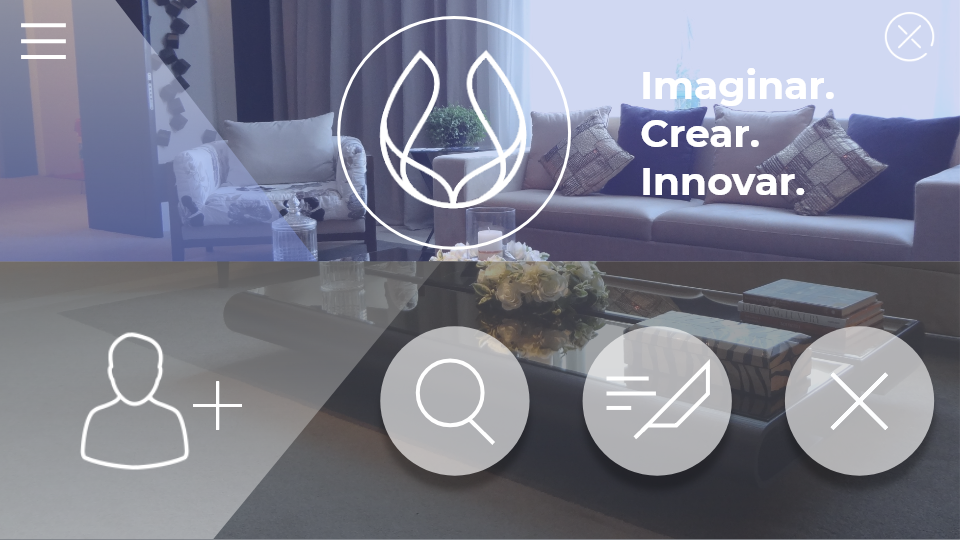
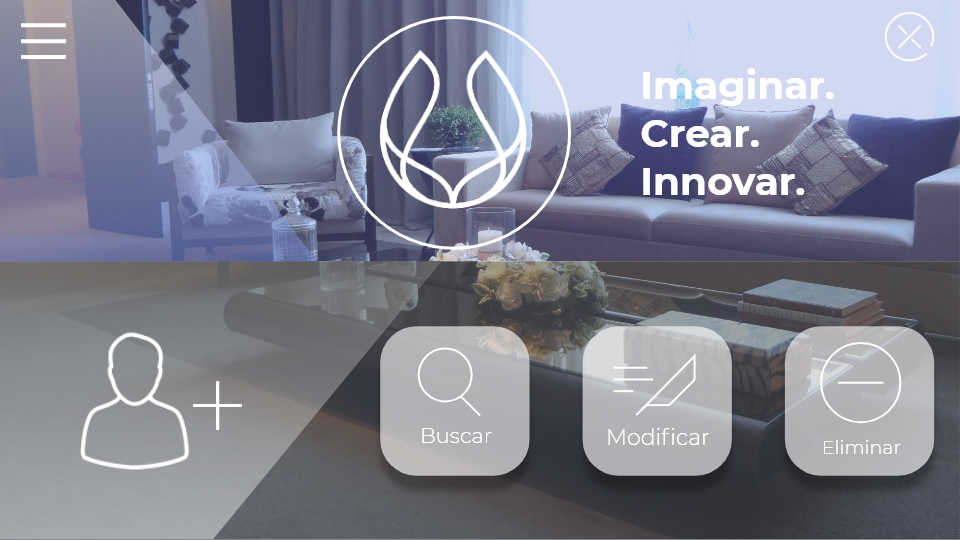
Fix UI and remove title bar

diff --git a/P&M/src/view/Employee/AdminMenu.java b/P&M/src/view/Employee/AdminMenu.java
@@ -29,20 +29,53 @@ public class AdminMenu extends javax.swing.JFrame {
     private void initComponents() {
 
         menuPanel = new javax.swing.JPanel();
-        jLabel1 = new javax.swing.JLabel();
+        exitLabel = new javax.swing.JLabel();
+        searchLabel = new javax.swing.JLabel();
+        modifyLabel = new javax.swing.JLabel();
+        deleteLabel = new javax.swing.JLabel();
+        addLabel = new javax.swing.JLabel();
         UI = new javax.swing.JLabel();
 
         setDefaultCloseOperation(javax.swing.WindowConstants.EXIT_ON_CLOSE);
+        setUndecorated(true);
         getContentPane().setLayout(new org.netbeans.lib.awtextra.AbsoluteLayout());
 
         menuPanel.setLayout(new org.netbeans.lib.awtextra.AbsoluteLayout());
 
-        jLabel1.addMouseListener(new java.awt.event.MouseAdapter() {
+        exitLabel.addMouseListener(new java.awt.event.MouseAdapter() {
             public void mouseClicked(java.awt.event.MouseEvent evt) {
-                jLabel1MouseClicked(evt);
+                exitLabelMouseClicked(evt);
             }
         });
-        menuPanel.add(jLabel1, new org.netbeans.lib.awtextra.AbsoluteConstraints(881, 10, 60, 50));
+        menuPanel.add(exitLabel, new org.netbeans.lib.awtextra.AbsoluteConstraints(881, 10, 60, 50));
+
+        searchLabel.addMouseListener(new java.awt.event.MouseAdapter() {
+            public void mouseClicked(java.awt.event.MouseEvent evt) {
+                searchLabelMouseClicked(evt);
+            }
+        });
+        menuPanel.add(searchLabel, new org.netbeans.lib.awtextra.AbsoluteConstraints(380, 320, 150, 150));
+
+        modifyLabel.addMouseListener(new java.awt.event.MouseAdapter() {
+            public void mouseClicked(java.awt.event.MouseEvent evt) {
+                modifyLabelMouseClicked(evt);
+            }
+        });
+        menuPanel.add(modifyLabel, new org.netbeans.lib.awtextra.AbsoluteConstraints(580, 320, 150, 150));
+
+        deleteLabel.addMouseListener(new java.awt.event.MouseAdapter() {
+            public void mouseClicked(java.awt.event.MouseEvent evt) {
+                deleteLabelMouseClicked(evt);
+            }
+        });
+        menuPanel.add(deleteLabel, new org.netbeans.lib.awtextra.AbsoluteConstraints(790, 320, 140, 150));
+
+        addLabel.addMouseListener(new java.awt.event.MouseAdapter() {
+            public void mouseClicked(java.awt.event.MouseEvent evt) {
+                addLabelMouseClicked(evt);
+            }
+        });
+        menuPanel.add(addLabel, new org.netbeans.lib.awtextra.AbsoluteConstraints(20, 290, 230, 190));
 
         UI.setIcon(new javax.swing.ImageIcon(getClass().getResource("/ui_resources/Admin Menu.png"))); // NOI18N
         menuPanel.add(UI, new org.netbeans.lib.awtextra.AbsoluteConstraints(0, 0, 960, 530));
@@ -52,13 +85,41 @@ public class AdminMenu extends javax.swing.JFrame {
         pack();
     }// </editor-fold>//GEN-END:initComponents
 
-    private void jLabel1MouseClicked(java.awt.event.MouseEvent evt) {//GEN-FIRST:event_jLabel1MouseClicked
+    private void exitLabelMouseClicked(java.awt.event.MouseEvent evt) {//GEN-FIRST:event_exitLabelMouseClicked
         this.dispose();
-    }//GEN-LAST:event_jLabel1MouseClicked
+    }//GEN-LAST:event_exitLabelMouseClicked
+
+    private void addLabelMouseClicked(java.awt.event.MouseEvent evt) {//GEN-FIRST:event_addLabelMouseClicked
+        AddEmployee addMenu = new AddEmployee(controller_,"Administrador");
+        addMenu.setLocationRelativeTo(null);
+        addMenu.setVisible(true);
+    }//GEN-LAST:event_addLabelMouseClicked
+
+    private void searchLabelMouseClicked(java.awt.event.MouseEvent evt) {//GEN-FIRST:event_searchLabelMouseClicked
+        SearchEmployees searchMenu = new SearchEmployees(controller_);
+        searchMenu.setLocationRelativeTo(null);
+        searchMenu.setVisible(true);
+    }//GEN-LAST:event_searchLabelMouseClicked
+
+    private void modifyLabelMouseClicked(java.awt.event.MouseEvent evt) {//GEN-FIRST:event_modifyLabelMouseClicked
+        ModifyEmployee modifyMenu = new ModifyEmployee(controller_, "Admiinistrador");
+        modifyMenu.setLocationRelativeTo(null);
+        modifyMenu.setVisible(true);
+    }//GEN-LAST:event_modifyLabelMouseClicked
+
+    private void deleteLabelMouseClicked(java.awt.event.MouseEvent evt) {//GEN-FIRST:event_deleteLabelMouseClicked
+       DeleteEmployee deleteMenu = new DeleteEmployee(controller_, "Administrador");
+       deleteMenu.setLocationRelativeTo(null);
+       deleteMenu.setVisible(true);
+    }//GEN-LAST:event_deleteLabelMouseClicked
 
     // Variables declaration - do not modify//GEN-BEGIN:variables
     private javax.swing.JLabel UI;
-    private javax.swing.JLabel jLabel1;
+    private javax.swing.JLabel addLabel;
+    private javax.swing.JLabel deleteLabel;
+    private javax.swing.JLabel exitLabel;
     private javax.swing.JPanel menuPanel;
+    private javax.swing.JLabel modifyLabel;
+    private javax.swing.JLabel searchLabel;
     // End of variables declaration//GEN-END:variables
 }

diff --git a/P&M/src/view/Foreman/ModifyCommission.java b/P&M/src/view/Foreman/ModifyCommission.java
@@ -253,41 +253,6 @@ public class ModifyCommission extends javax.swing.JFrame {
             evt.consume();
         }
     }
-    
-    /**
-     * @param args the command line arguments
-     */
-    public static void main(String args[]) {
-        /* Set the Nimbus look and feel */
-        //<editor-fold defaultstate="collapsed" desc=" Look and feel setting code (optional) ">
-        /* If Nimbus (introduced in Java SE 6) is not available, stay with the default look and feel.
-         * For details see http://download.oracle.com/javase/tutorial/uiswing/lookandfeel/plaf.html 
-         */
-        try {
-            for (javax.swing.UIManager.LookAndFeelInfo info : javax.swing.UIManager.getInstalledLookAndFeels()) {
-                if ("Nimbus".equals(info.getName())) {
-                    javax.swing.UIManager.setLookAndFeel(info.getClassName());
-                    break;
-                }
-            }
-        } catch (ClassNotFoundException ex) {
-            java.util.logging.Logger.getLogger(ListCatalog.class.getName()).log(java.util.logging.Level.SEVERE, null, ex);
-        } catch (InstantiationException ex) {
-            java.util.logging.Logger.getLogger(ListCatalog.class.getName()).log(java.util.logging.Level.SEVERE, null, ex);
-        } catch (IllegalAccessException ex) {
-            java.util.logging.Logger.getLogger(ListCatalog.class.getName()).log(java.util.logging.Level.SEVERE, null, ex);
-        } catch (javax.swing.UnsupportedLookAndFeelException ex) {
-            java.util.logging.Logger.getLogger(ListCatalog.class.getName()).log(java.util.logging.Level.SEVERE, null, ex);
-        }
-        //</editor-fold>
-
-        /* Create and display the form */
-        java.awt.EventQueue.invokeLater(new Runnable() {
-            public void run() {
-                new ModifyCommission(new Controller()).setVisible(true);
-            }
-        });
-    }
 
     // Variables declaration - do not modify//GEN-BEGIN:variables
     private javax.swing.JLabel BranchLabel;

diff --git a/P&M/src/view/Foreman/ForemanMenu.java b/P&M/src/view/Foreman/ForemanMenu.java
@@ -49,6 +49,7 @@ public class ForemanMenu extends javax.swing.JFrame {
         furnitureLabel = new javax.swing.JLabel();
 
         setDefaultCloseOperation(javax.swing.WindowConstants.EXIT_ON_CLOSE);
+        setUndecorated(true);
         getContentPane().setLayout(new org.netbeans.lib.awtextra.AbsoluteLayout());
 
         commissionOptionPanel.setLayout(new org.netbeans.lib.awtextra.AbsoluteLayout());

diff --git a/P&M/src/view/Employee/ManagerMenu.java b/P&M/src/view/Employee/ManagerMenu.java
@@ -53,6 +53,7 @@ public class ManagerMenu extends javax.swing.JFrame {
         userBackground = new javax.swing.JLabel();
 
         setDefaultCloseOperation(javax.swing.WindowConstants.EXIT_ON_CLOSE);
+        setUndecorated(true);
         getContentPane().setLayout(new org.netbeans.lib.awtextra.AbsoluteLayout());
 
         branchOptionPanel.setLayout(new org.netbeans.lib.awtextra.AbsoluteLayout());

diff --git a/P&M/src/view/Login.java b/P&M/src/view/Login.java
@@ -47,6 +47,7 @@ public class Login extends javax.swing.JFrame {
 
         setDefaultCloseOperation(javax.swing.WindowConstants.EXIT_ON_CLOSE);
         setBackground(new java.awt.Color(35, 39, 42));
+        setUndecorated(true);
         getContentPane().setLayout(new org.netbeans.lib.awtextra.AbsoluteLayout());
 
         userTextField.setBackground(new java.awt.Color(232, 233, 235));

diff --git a/P&M/src/view/Seller/SellerMenu.java b/P&M/src/view/Seller/SellerMenu.java
@@ -36,6 +36,7 @@ public class SellerMenu extends javax.swing.JFrame {
         backgroundLabel = new javax.swing.JLabel();
 
         setDefaultCloseOperation(javax.swing.WindowConstants.EXIT_ON_CLOSE);
+        setUndecorated(true);
 
         salesPanel.setLayout(new org.netbeans.lib.awtextra.AbsoluteLayout());
 
